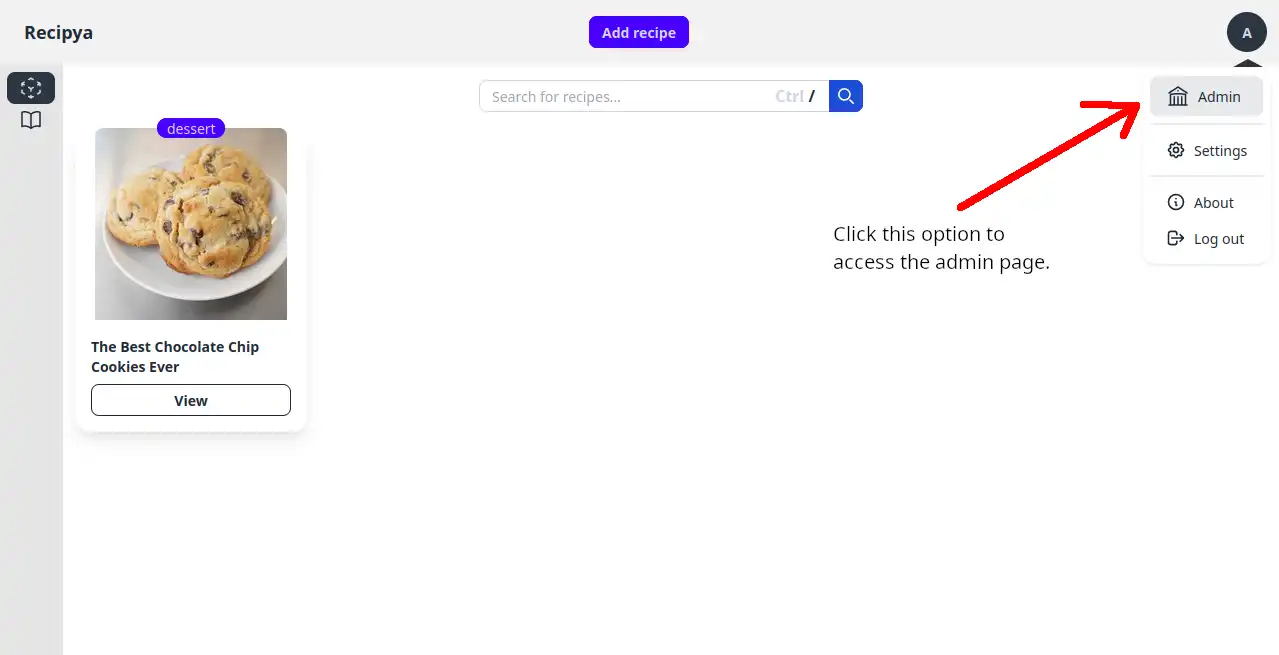
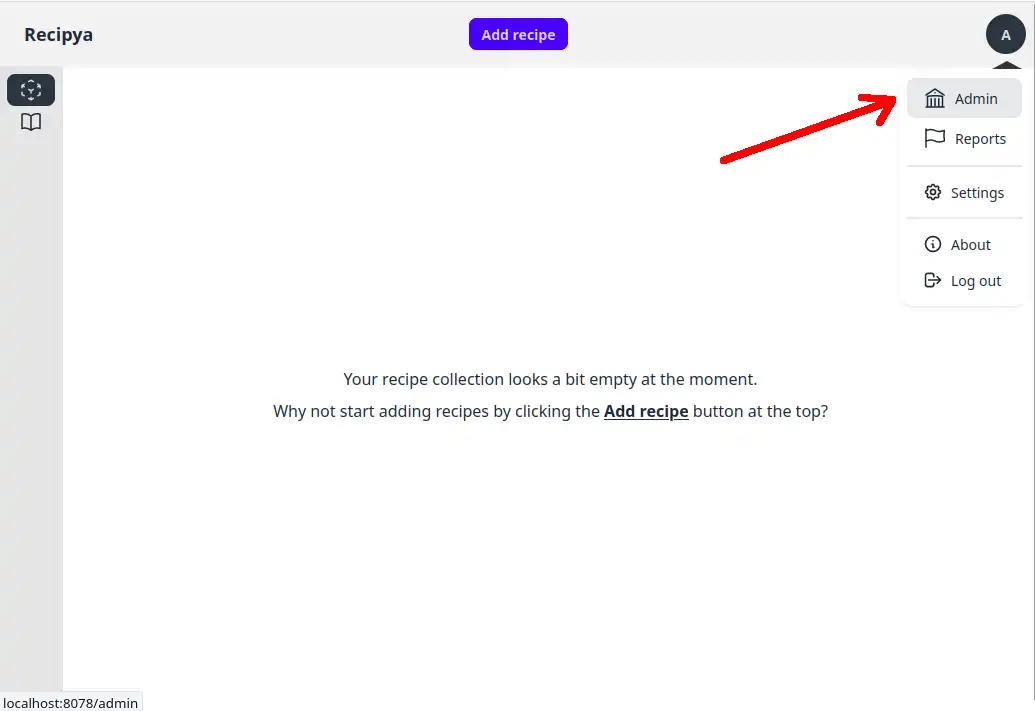
continue

diff --git a/internal/server/handlers_recipes.go b/internal/server/handlers_recipes.go
@@ -187,7 +187,7 @@ func (s *Server) recipesAddImportHandler() http.HandlerFunc {
 			s.Repository.CalculateNutrition(userID, recipeIDs, settings)
 			s.Brokers[userID].HideNotification()
 			message := fmt.Sprintf("Imported %d recipes. %d skipped", count.Load(), int64(len(recipes))-count.Load())
-			s.Brokers[userID].SendToast(models.NewInfoToast("Operation Successful", message, "See /reports?view=latest"))
+			s.Brokers[userID].SendToast(models.NewInfoToast("Operation Successful", message, "View /reports?view=latest"))
 		}()
 
 		w.WriteHeader(http.StatusAccepted)

diff --git a/docs/website/content/docs/features/reports.md b/docs/website/content/docs/features/reports.md
@@ -1,0 +1,51 @@
+---
+title: Reports
+weight: 8
+prev: /docs/features/recipes
+---
+
+The reports page allows you to view operation logs after importing recipes. 
+
+## Access
+
+There are two ways to access the page.
+
+### Avatar Menu
+
+![](images/reports-access.webp)
+
+The reports page will list all the reports on the left pane. No report will be selected initially.
+
+![](images/reports-fresh.webp)
+
+### After Imports
+
+![](images/reports-access-after.webp)
+
+The reports page will also list all the reports in the left pane. The latest report will be selected.
+
+![](images/reports-latest.webp)
+
+## Structure
+
+The reports page is structured into two viewing panes. The left one lists all available reports for the report type, whereas the right 
+pane displays the content of the selected report. The report type is selected from the sidebar next to the list of reports. 
+
+You can choose from the following types:
+- **Import**: An import report is one generated after importing recipes.
+
+### Left Pane
+
+The left pane lists all reports of the selected type. Each item displays the following:
+- **Time stamp**: The title of the item. Represents when report was generated.
+- **Execution time**: The time it took to import the recipes.
+- **Log count**: Found to the right of the execution time. Represents the number of entries associated with the report.
+
+### Right Pane
+
+The right pane displays all log entries associated with the selected report in a table. You can sort any column, either descending or 
+ascending, by clicking on its header.
+
+Failed operations will be highlighted in red.
+
+![](images/reports-errors.webp)

diff --git a/docs/website/content/docs/features/_index.md b/docs/website/content/docs/features/_index.md
@@ -40,4 +40,8 @@ Overview of Recipya's features.
         title="Backups"
         subtitle="Learn how backups work and how to restore your data."
         icon="newspaper" >}}
+    {{< card link="/guide/docs/features/reports/"
+        title="Reports"
+        subtitle="Learn what the reports module is about."
+        icon="newspaper" >}}
 {{< /cards >}}

diff --git a/docs/website/content/docs/features/cookbooks/_index.md b/docs/website/content/docs/features/cookbooks/_index.md
@@ -1,8 +1,8 @@
 ---
 title: "Cookbooks"
-weight: 2
+weight: 3
 next: /docs/features/cookbooks/add
-prev: /docs/features/recipes/wakelock
+prev: /docs/features/backups
 ---
 
 A cookbook is a collection of recipes. You can access this feature from 'Cookbook' tab of the sidebar.

diff --git a/docs/website/content/docs/features/recipes/_index.md b/docs/website/content/docs/features/recipes/_index.md
@@ -1,8 +1,8 @@
 ---
 title: Recipes
-weight: 1
+weight: 7
 next: /docs/features/recipes/add
-prev: /docs/features
+prev: /docs/features/nutrition-facts
 ---
 
 You can add, view, edit, and delete any recipe in your collection.

diff --git a/docs/website/content/docs/features/export-data.md b/docs/website/content/docs/features/export-data.md
@@ -1,6 +1,7 @@
 ---
 title: "Export Data"
-weight: 7
+weight: 3
+prev: /docs/features/cookbooks
 ---
 
 It is possible to download your data through the settings. To access them, click on your avatar in the top right

diff --git a/docs/website/content/docs/features/admin.md b/docs/website/content/docs/features/admin.md
@@ -1,6 +1,6 @@
 ---
 title: Admin
-weight: 9
+weight: 1
 ---
 
 An administrator is defined as the initial user, typically the one who set up Recipya.

diff --git a/docs/website/content/docs/features/backups.md b/docs/website/content/docs/features/backups.md
@@ -1,6 +1,6 @@
 ---
 title: Backups
-weight: 10
+weight: 2
 ---
 
 There are two types of data backups, each done once every three days.

diff --git a/docs/website/content/docs/features/measurement-systems.md b/docs/website/content/docs/features/measurement-systems.md
@@ -1,6 +1,6 @@
 ---
 title: "Measurement Systems"
-weight: 3
+weight: 5
 prev: /docs/features/cookbooks/share
 ---
 

diff --git a/docs/website/content/docs/features/integrations.md b/docs/website/content/docs/features/integrations.md
@@ -1,6 +1,6 @@
 ---
 title: Integrations
-weight: 8
+weight: 4
 next: /docs/installation
 ---
 

diff --git a/docs/website/content/docs/features/nutrition-facts.md b/docs/website/content/docs/features/nutrition-facts.md
@@ -1,5 +1,5 @@
 ---
-title: "Nutrition Facts"
+title: Nutrition Facts
 weight: 6
 ---
 
